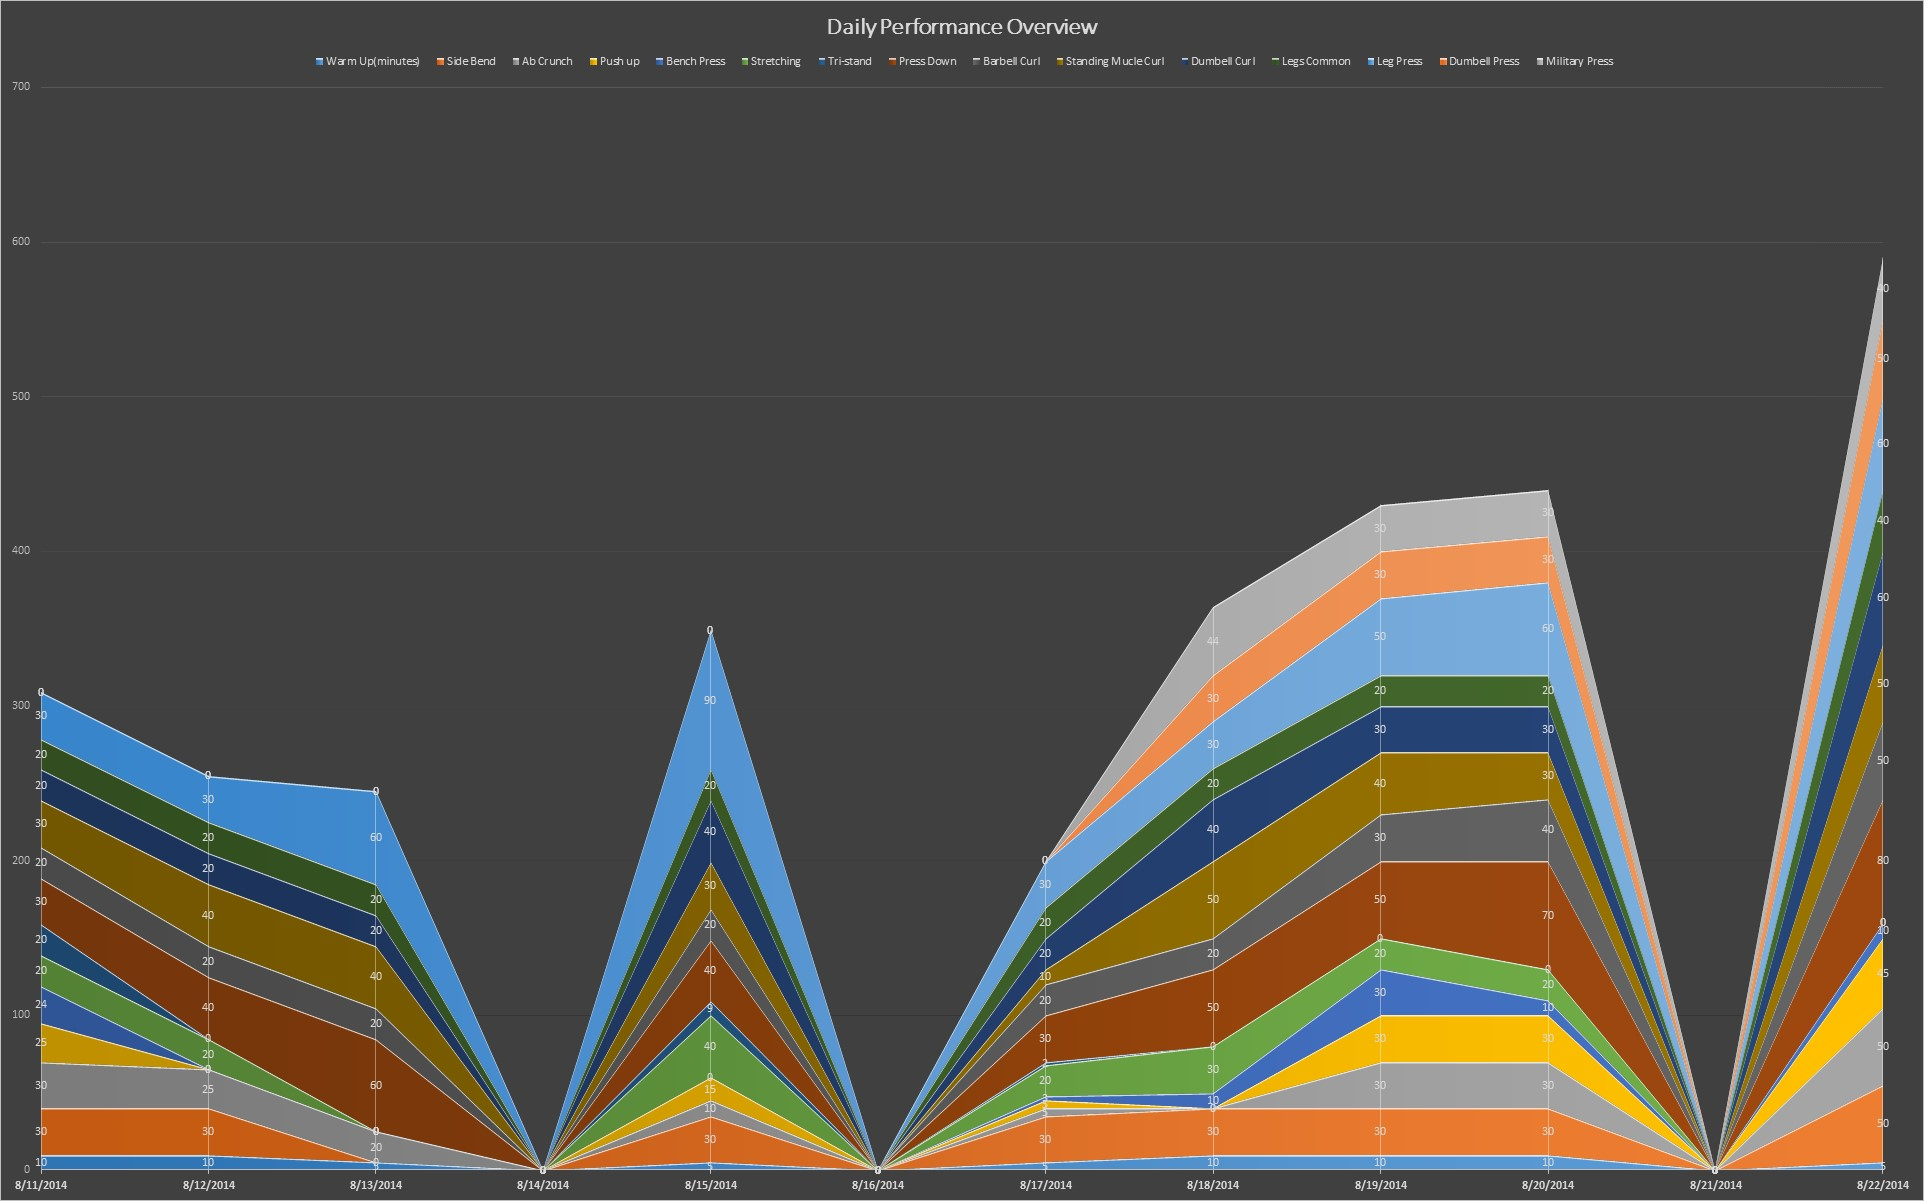
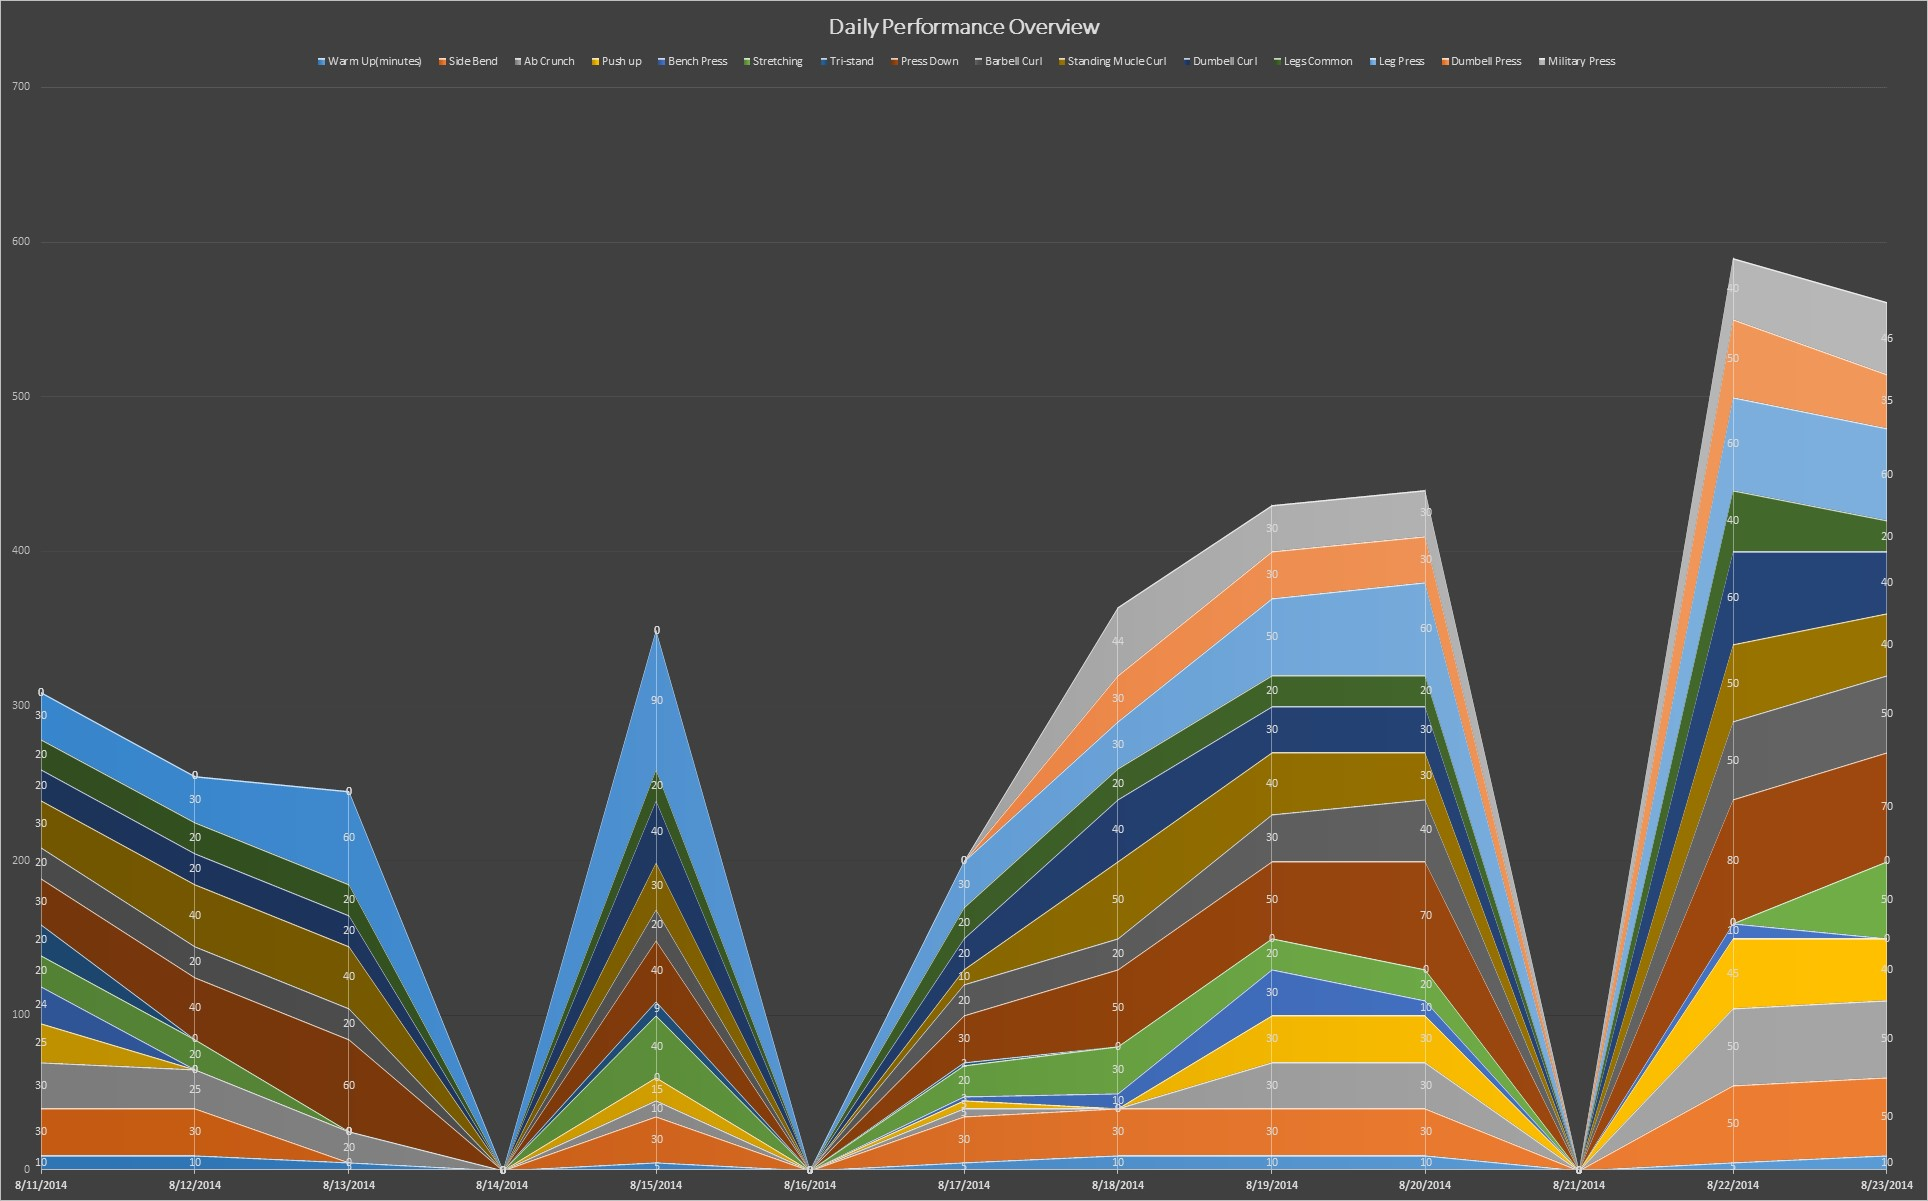
Fitness Update 23/08/2014

diff --git a/_includes/fitnesstracker.html b/_includes/fitnesstracker.html
@@ -126,6 +126,14 @@
 					"title": "8/22/2014",
 					"type": "column",
 					"valueField": "8/22/2014"
+				},
+				{
+					"balloonText": "[[category]]: [[value]] times on [[title]]",
+					"fillAlphas": 1,
+					"id": "8/23/2014",
+					"title": "8/23/2014",
+					"type": "column",
+					"valueField": "8/23/2014"
 				}
 			],
 			"guides": [],
@@ -164,7 +172,8 @@
 					"8/19/2014": "10",
 					"8/20/2014": "10",
 					"8/21/2014": 0,
-					"8/22/2014": "5"
+					"8/22/2014": "5",
+					"8/23/2014": "10"
 				},
 				{
 					"8/11/2014": "30",
@@ -179,7 +188,8 @@
 					"8/19/2014": "30",
 					"8/20/2014": "30",
 					"8/21/2014": 0,
-					"8/22/2014": "50"
+					"8/22/2014": "50",
+					"8/23/2014": "50"
 				},
 				{
 					"8/11/2014": "30",
@@ -194,7 +204,8 @@
 					"8/19/2014": "30",
 					"8/20/2014": "30",
 					"8/21/2014": 0,
-					"8/22/2014": "50"
+					"8/22/2014": "50",
+					"8/23/2014": "50"
 				},
 				{
 					"8/11/2014": "25",
@@ -209,7 +220,8 @@
 					"8/19/2014": "30",
 					"8/20/2014": "30",
 					"8/21/2014": 0,
-					"8/22/2014": "45"
+					"8/22/2014": "45",
+					"8/23/2014": "40"
 				},
 				{
 					"8/11/2014": "24",
@@ -224,7 +236,8 @@
 					"8/19/2014": "30",
 					"8/20/2014": "10",
 					"8/21/2014": 0,
-					"8/22/2014": "10"
+					"8/22/2014": "10",
+					"8/23/2014": "0"
 				},
 				{
 					"8/11/2014": "20",
@@ -239,7 +252,8 @@
 					"8/19/2014": "20",
 					"8/20/2014": "20",
 					"8/21/2014": 0,
-					"8/22/2014": "0"
+					"8/22/2014": "0",
+					"8/23/2014": "50"
 				},
 				{
 					"8/11/2014": "20",
@@ -254,7 +268,8 @@
 					"8/19/2014": "0",
 					"8/20/2014": "0",
 					"8/21/2014": 0,
-					"8/22/2014": "0"
+					"8/22/2014": "0",
+					"8/23/2014": "0"
 				},
 				{
 					"8/11/2014": "30",
@@ -269,7 +284,8 @@
 					"8/19/2014": "50",
 					"8/20/2014": "70",
 					"8/21/2014": 0,
-					"8/22/2014": "80"
+					"8/22/2014": "80",
+					"8/23/2014": "70"
 				},
 				{
 					"8/11/2014": "20",
@@ -284,7 +300,8 @@
 					"8/19/2014": "30",
 					"8/20/2014": "40",
 					"8/21/2014": 0,
-					"8/22/2014": "50"
+					"8/22/2014": "50",
+					"8/23/2014": "50"
 				},
 				{
 					"8/11/2014": "30",
@@ -299,7 +316,8 @@
 					"8/19/2014": "40",
 					"8/20/2014": "30",
 					"8/21/2014": 0,
-					"8/22/2014": "50"
+					"8/22/2014": "50",
+					"8/23/2014": "40"
 				},
 				{
 					"8/11/2014": "20",
@@ -314,7 +332,8 @@
 					"8/19/2014": "30",
 					"8/20/2014": "30",
 					"8/21/2014": 0,
-					"8/22/2014": "60"
+					"8/22/2014": "60",
+					"8/23/2014": "40"
 				},
 				{
 					"8/11/2014": "20",
@@ -329,7 +348,8 @@
 					"8/19/2014": "20",
 					"8/20/2014": "20",
 					"8/21/2014": 0,
-					"8/22/2014": "40"
+					"8/22/2014": "40",
+					"8/23/2014": "20"
 				},
 				{
 					"8/11/2014": "30",
@@ -344,7 +364,8 @@
 					"8/19/2014": "50",
 					"8/20/2014": "60",
 					"8/21/2014": 0,
-					"8/22/2014": "60"
+					"8/22/2014": "60",
+					"8/23/2014": "60"
 				},
 				{
 					"8/11/2014": "0",
@@ -359,7 +380,8 @@
 					"8/19/2014": "30",
 					"8/20/2014": "30",
 					"8/21/2014": 0,
-					"8/22/2014": "50"
+					"8/22/2014": "50",
+					"8/23/2014": "35"
 				},
 				{
 					"8/11/2014": "0",
@@ -374,7 +396,8 @@
 					"8/19/2014": "30",
 					"8/20/2014": "30",
 					"8/21/2014": 0,
-					"8/22/2014": "40"
+					"8/22/2014": "40",
+					"8/23/2014": "46"
 				}
 			]
 		}

diff --git a/_posts/2014-08-11-fitness-tracker.md b/_posts/2014-08-11-fitness-tracker.md
@@ -3,7 +3,7 @@ layout: post
 title: "Fitness Tracker"
 description: Tracking my gym activities
 headline: 
-modified: 2014-08-22 21:06:00 +0600
+modified: 2014-08-23 17:10:00 +0600
 category: personal
 tags: [gym, fitness]
 imagefeature: 
@@ -54,6 +54,7 @@ This graph is generated using a [amCharts.JS](http://www.amcharts.com/) and is u
     <th class="tg-031e">8/20/2014</th>
     <th class="tg-031e">8/21/2014</th>
     <th class="tg-031e">8/22/2014</th>
+    <th class="tg-031e">8/23/2014</th>
   </tr>
   <tr>
     <td class="tg-031e">Warm Up(minutes)</td>
@@ -69,6 +70,7 @@ This graph is generated using a [amCharts.JS](http://www.amcharts.com/) and is u
     <td class="tg-031e">10</td>
     <td class="tg-031e">0</td>
     <td class="tg-031e">5</td>
+    <td class="tg-031e">10</td>
   </tr>
   <tr>
     <td class="tg-031e">Side Bend</td>
@@ -83,6 +85,7 @@ This graph is generated using a [amCharts.JS](http://www.amcharts.com/) and is u
     <td class="tg-031e">30</td>
     <td class="tg-031e">30</td>
     <td class="tg-031e">0</td>
+    <td class="tg-031e">50</td>
     <td class="tg-031e">50</td>
   </tr>
   <tr>
@@ -99,6 +102,7 @@ This graph is generated using a [amCharts.JS](http://www.amcharts.com/) and is u
     <td class="tg-031e">30</td>
     <td class="tg-031e">0</td>
     <td class="tg-031e">50</td>
+    <td class="tg-031e">50</td>
   </tr>
   <tr>
     <td class="tg-031e">Push up</td>
@@ -114,6 +118,7 @@ This graph is generated using a [amCharts.JS](http://www.amcharts.com/) and is u
     <td class="tg-031e">30</td>
     <td class="tg-031e">0</td>
     <td class="tg-031e">45</td>
+    <td class="tg-031e">40</td>
   </tr>
   <tr>
     <td class="tg-031e">Bench Press</td>
@@ -129,6 +134,7 @@ This graph is generated using a [amCharts.JS](http://www.amcharts.com/) and is u
     <td class="tg-031e">10</td>
     <td class="tg-031e">0</td>
     <td class="tg-031e">10</td>
+    <td class="tg-031e">0</td>
   </tr>
   <tr>
     <td class="tg-031e">Stretching</td>
@@ -144,6 +150,7 @@ This graph is generated using a [amCharts.JS](http://www.amcharts.com/) and is u
     <td class="tg-031e">20</td>
     <td class="tg-031e">0</td>
     <td class="tg-031e">0</td>
+    <td class="tg-031e">50</td>
   </tr>
   <tr>
     <td class="tg-031e">Tri-stand</td>
@@ -154,6 +161,7 @@ This graph is generated using a [amCharts.JS](http://www.amcharts.com/) and is u
     <td class="tg-031e">9</td>
     <td class="tg-031e">0</td>
     <td class="tg-031e">2</td>
+    <td class="tg-031e">0</td>
     <td class="tg-031e">0</td>
     <td class="tg-031e">0</td>
     <td class="tg-031e">0</td>
@@ -174,6 +182,7 @@ This graph is generated using a [amCharts.JS](http://www.amcharts.com/) and is u
     <td class="tg-031e">70</td>
     <td class="tg-031e">0</td>
     <td class="tg-031e">80</td>
+    <td class="tg-031e">70</td>
   </tr>
   <tr>
     <td class="tg-031e">Barbell Curl</td>
@@ -188,6 +197,7 @@ This graph is generated using a [amCharts.JS](http://www.amcharts.com/) and is u
     <td class="tg-031e">30</td>
     <td class="tg-031e">40</td>
     <td class="tg-031e">0</td>
+    <td class="tg-031e">50</td>
     <td class="tg-031e">50</td>
   </tr>
   <tr>
@@ -204,6 +214,7 @@ This graph is generated using a [amCharts.JS](http://www.amcharts.com/) and is u
     <td class="tg-031e">30</td>
     <td class="tg-031e">0</td>
     <td class="tg-031e">50</td>
+    <td class="tg-031e">40</td>
   </tr>
   <tr>
     <td class="tg-031e">Dumbell Curl</td>
@@ -219,6 +230,7 @@ This graph is generated using a [amCharts.JS](http://www.amcharts.com/) and is u
     <td class="tg-031e">30</td>
     <td class="tg-031e">0</td>
     <td class="tg-031e">60</td>
+    <td class="tg-031e">40</td>
   </tr>
   <tr>
     <td class="tg-031e">Legs Common</td>
@@ -234,6 +246,7 @@ This graph is generated using a [amCharts.JS](http://www.amcharts.com/) and is u
     <td class="tg-031e">20</td>
     <td class="tg-031e">0</td>
     <td class="tg-031e">40</td>
+    <td class="tg-031e">20</td>
   </tr>
   <tr>
     <td class="tg-031e">Leg Press</td>
@@ -248,6 +261,7 @@ This graph is generated using a [amCharts.JS](http://www.amcharts.com/) and is u
     <td class="tg-031e">50</td>
     <td class="tg-031e">60</td>
     <td class="tg-031e">0</td>
+    <td class="tg-031e">60</td>
     <td class="tg-031e">60</td>
   </tr>
   <tr>
@@ -264,6 +278,7 @@ This graph is generated using a [amCharts.JS](http://www.amcharts.com/) and is u
     <td class="tg-031e">30</td>
     <td class="tg-031e">0</td>
     <td class="tg-031e">50</td>
+    <td class="tg-031e">35</td>
   </tr>
   <tr>
     <td class="tg-031e">Military Press</td>
@@ -279,6 +294,7 @@ This graph is generated using a [amCharts.JS](http://www.amcharts.com/) and is u
     <td class="tg-031e">30</td>
     <td class="tg-031e">0</td>
     <td class="tg-031e">40</td>
+    <td class="tg-031e">46</td>
   </tr>
 </table>
 
